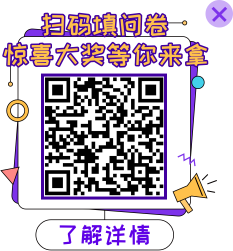
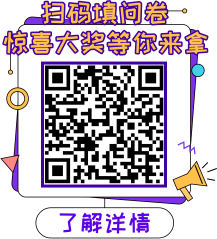
summit update

diff --git a/themes/project/static/css/home.css b/themes/project/static/css/home.css
@@ -1483,33 +1483,54 @@ footer .foot {
 .read-cookie.visited {
     display: none;
 }
-@media screen and (max-width: 1000px){
-    .read-cookie { 
-        height: unset;
-    }
-    .home-questionnaire{
-        display: none;
-    }
-}
-
-
-
 
 
 .home-questionnaire{
     position: fixed;
     left:2%;
     bottom: 8% ;
+    z-index: 99;
 }
 .home-questionnaire .closed{
     position: absolute;
-    top:0;
-    right: 0;
-    width:30px;
+    top:-5px;
+    right: -5px;
+    width:28px;
     display: block;
-    height:30px; 
+    height:28px; 
     cursor: pointer;
+    background: url(../img/questionnaire/close.png) no-repeat center/cover;
 }
 .home-questionnaire.visited{
     display: none;
 }
+
+
+
+
+@media screen and (max-width: 1400px){
+    .home-questionnaire img{
+        width: 160px;
+    }
+}
+
+@media screen and (max-width: 1000px){
+    .read-cookie { 
+        height: unset;
+    }
+    .home-questionnaire img{
+        width: 120px;
+    }
+     
+}
+@media screen and (max-width: 700px){ 
+    .home-questionnaire .closed{
+        top: -10px;
+        right: -10px;
+        width:24px; 
+        height:24px; 
+    }
+}
+
+ 
+

diff --git a/themes/project/layouts/index.html b/themes/project/layouts/index.html
@@ -27,11 +27,7 @@
       {{ partial "organization.html" . }}
       {{ partial "communityPartner.html" . }}
     </div>
-    
-    <div class="home-questionnaire">
-      <i class="closed"></i>
-      <a href="questionnaire.html"><img src="/img/questionnaire/floating.png"></a>
-    </div>
+     
 
     {{ partial "footer.html" . }}
 

diff --git a/themes/project/layouts/partials/cookie.html b/themes/project/layouts/partials/cookie.html
@@ -4,3 +4,9 @@
         <img class="js-cookie-close" src="/img/icon-close.png" alt="">
     </p>
 </div>
+
+<!-- 社区满意度调研  -->
+<div class="home-questionnaire">
+    <i class="closed"></i>
+    <a href="questionnaire.html"><img src="/img/questionnaire/floating.png"></a>
+</div>

diff --git a/themes/project/static/css/download.css b/themes/project/static/css/download.css
@@ -188,7 +188,7 @@
 .questionnaire {
     position: fixed;
     left: 200px;
-    bottom: 300px;
+    bottom: 350px;
 }
 .ques-icon {
     position: relative;
@@ -345,6 +345,6 @@
     }
     .questionnaire {
         left: 15px;
-        bottom: 150px;
+        bottom: 200px;
     }
 }

diff --git a/themes/project/layouts/questionnaire/list.html b/themes/project/layouts/questionnaire/list.html
@@ -66,11 +66,7 @@
         </div>
       </div>
     </div>
-
-    <div class="home-questionnaire">
-      <i class="closed"></i>
-      <a href="questionnaire.html"><img src="/img/questionnaire/floating.png"></a>
-    </div>
+ 
 
     {{ partial "footer.html" . }}
 
